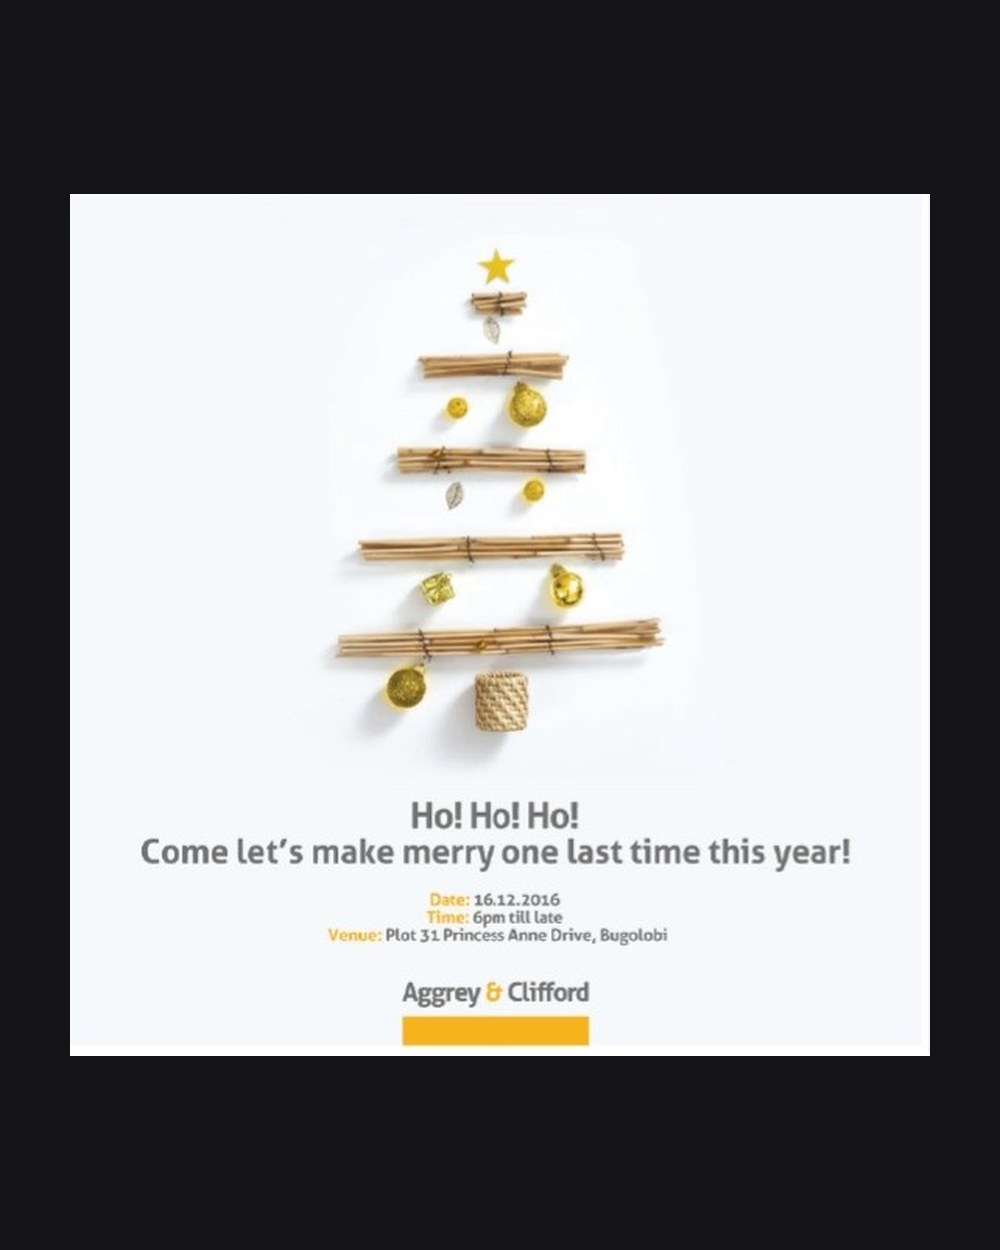
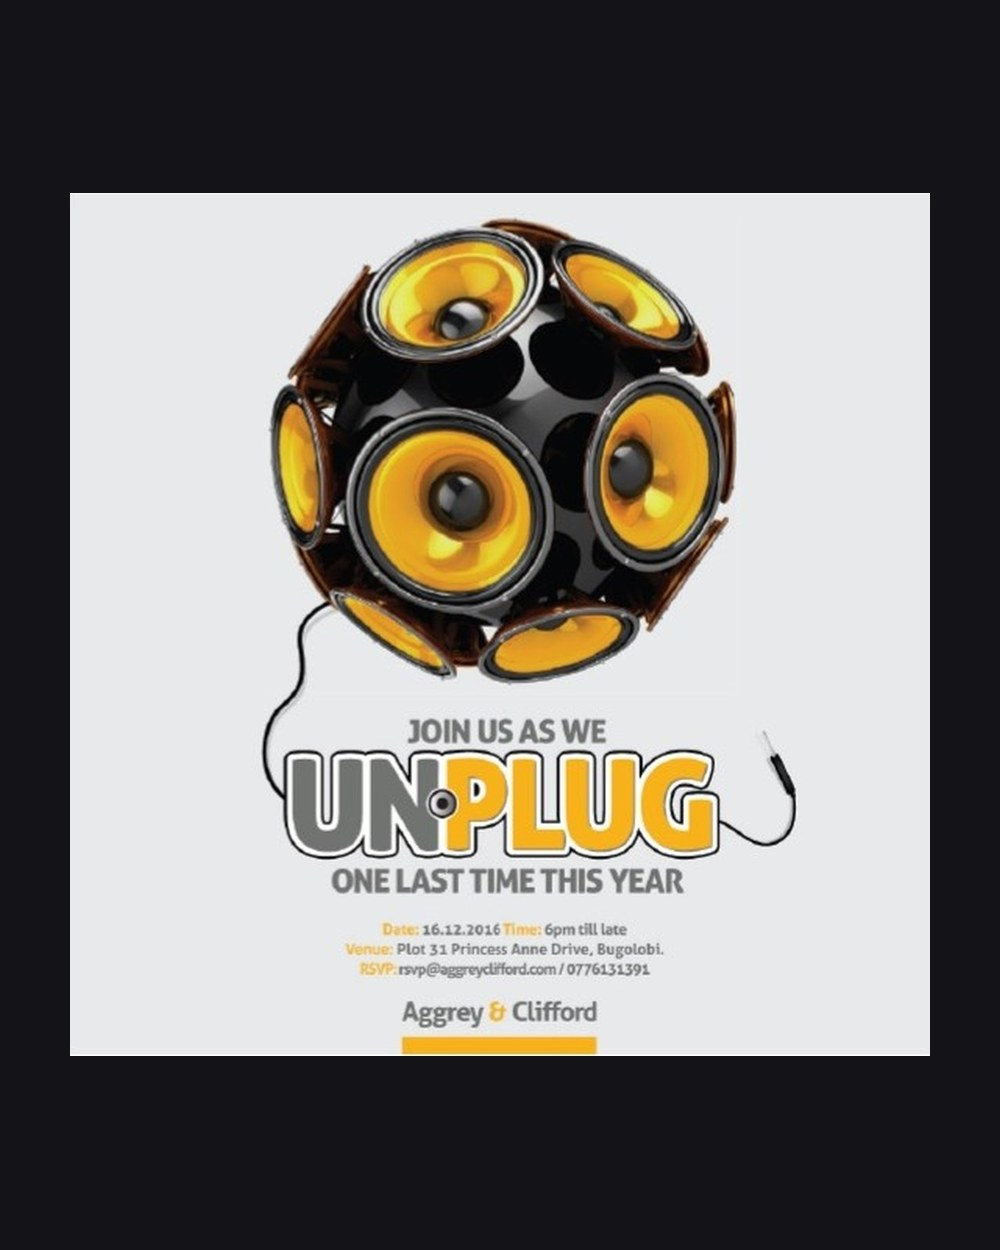
Dedupe Kolaborate Easter post, fit Kolaborate/DiVA covers to grid, Aggrey cover to 2nd image; remove Ultimate and Titanium

Changed region(s): [[0.124, 0.156, 0.868, 0.8424]]

diff --git a/script.js b/script.js
@@ -1,18 +1,4 @@
 const projects = {
-    titanium: {
-        tag: 'Logo Design',
-        title: 'Titanium Hotel Apartments',
-        description: 'Logo design for Titanium Hotel Apartments and Spa — a premium hotel, residence, and wellness destination. The logo features a stylized representation of twin modern high-rise towers with golden trim, communicating luxury, architectural excellence, and high-end hospitality. The final cover logo (Logo-08) is rendered in a sophisticated 3D metallic finish with realistic drop shadows and glowing windows, set against a dark teal background. The secondary image showcases the clean, flat 2D version.',
-        image: 'assets/images/titanium-logo-cover.png',
-        images: [
-            'assets/images/titanium-logo-cover.png',
-            'assets/images/titanium-logo-2.jpg',
-            'assets/images/titanium-logo-flat.png'
-        ],
-        year: '2025',
-        role: 'Logo Design, Brand Identity',
-        client: 'Titanium Hotel Apartments & Spa',
-    },
 
     divacosmetics: {
         tag: 'Social Media / Content',
@@ -145,16 +131,6 @@ const projects = {
         role: 'Logo Design',
         client: 'The Elbow Room Podcast',
     },
-    ultimate: {
-        tag: 'Brand Identity',
-        title: 'Ultimate Brand Consultants',
-        description: 'Brand identity and business card design for Ultimate Brand Consultants. The mark pairs a chess king and its base with a classical serif wordmark, framing the name between the two halves of the piece. Crimson and slate grey on white, with a reversed white-on-crimson version for the card back.',
-        image: 'assets/images/ultimate-logo.jpg',
-        images: ['assets/images/ultimate-logo.jpg', 'assets/images/ultimate-card.jpg', 'assets/images/ultimate-back.jpg'],
-        year: '2021',
-        role: 'Logo Design, Business Card Design',
-        client: 'Ultimate Brand Consultants',
-    },
     catcha: {
         tag: 'Logo & Stationery',
         title: 'Catcha Therapy',
@@ -264,8 +240,8 @@ const projects = {
         tag: 'Advertising',
         title: 'Aggrey & Clifford',
         description: 'Creative campaigns for Aggrey & Clifford — an Africa-based full-service integrated advertising agency. Work included Christmas Cards, Party Invitations and event promotional materials.',
-        image: 'assets/images/aggrey-tree.jpg',
-        images: ['assets/images/aggrey-tree.jpg', 'assets/images/aggrey-unplug.jpg'],
+        image: 'assets/images/aggrey-unplug.jpg',
+        images: ['assets/images/aggrey-unplug.jpg', 'assets/images/aggrey-tree.jpg'],
         year: '2016',
         role: 'Art Direction, Design',
         client: 'Aggrey & Clifford',
@@ -351,7 +327,6 @@ const projects = {
         image: 'assets/images/kolaborate-easter.jpg',
         images: [
             'assets/images/kolaborate-easter.jpg',
-            'assets/images/kolaborate-6.jpg',
             'assets/images/kolaborate-4.jpg',
             'assets/images/kolaborate-5.jpg',
             'assets/images/kolaborate.png',

diff --git a/index.html b/index.html
@@ -149,13 +149,6 @@
                     <p>Brand Identity / Packaging — 2023</p>
                 </div>
             </div>
-            <div class="gallery-item" data-project="titanium" data-category="Food & Hospitality">
-                <img src="assets/images/titanium-logo-cover.png" alt="Titanium Hotel Apartments" class="gallery-img">
-                <div class="overlay">
-                    <h3>Titanium Hotel Apartments</h3>
-                    <p>Logo Design — 2025</p>
-                </div>
-            </div>
             <div class="gallery-item" data-project="showtime" data-category="Media & Entertainment">
                 <img src="assets/images/showtime-cover.png" alt="ShowTime Magazine" class="gallery-img">
                 <div class="overlay">
@@ -241,7 +234,7 @@
                 </div>
             </div>
             <div class="gallery-item" data-project="kolaborate" data-category="Corporate & Finance">
-                <img src="assets/images/kolaborate-easter.jpg" alt="Kolaborate Platforms" class="gallery-img">
+                <img src="assets/images/kolaborate-cover.jpg" alt="Kolaborate Platforms" class="gallery-img">
                 <div class="overlay">
                     <h3>Kolaborate Platforms</h3>
                     <p>Brand Identity / Print — 2024</p>
@@ -262,17 +255,10 @@
                 </div>
             </div>
             <div class="gallery-item" data-project="divacosmetics" data-category="Beauty & Wellness">
-                <img src="assets/images/diva-cosmetics-1.jpg" alt="DiVA Cosmetics Campaign" class="gallery-img">
+                <img src="assets/images/diva-cover.jpg" alt="DiVA Cosmetics Campaign" class="gallery-img">
                 <div class="overlay">
                     <h3>DiVA Cosmetics</h3>
                     <p>Social Media / Content — 2026</p>
-                </div>
-            </div>
-            <div class="gallery-item" data-project="ultimate" data-category="Corporate & Finance">
-                <img src="assets/images/ultimate-cover.jpg" alt="Ultimate Brand Consultants" class="gallery-img">
-                <div class="overlay">
-                    <h3>Ultimate Brand Consultants</h3>
-                    <p>Brand Identity / Stationery — 2021</p>
                 </div>
             </div>
             <div class="gallery-item" data-project="aggreyclifford" data-category="Corporate & Finance">
